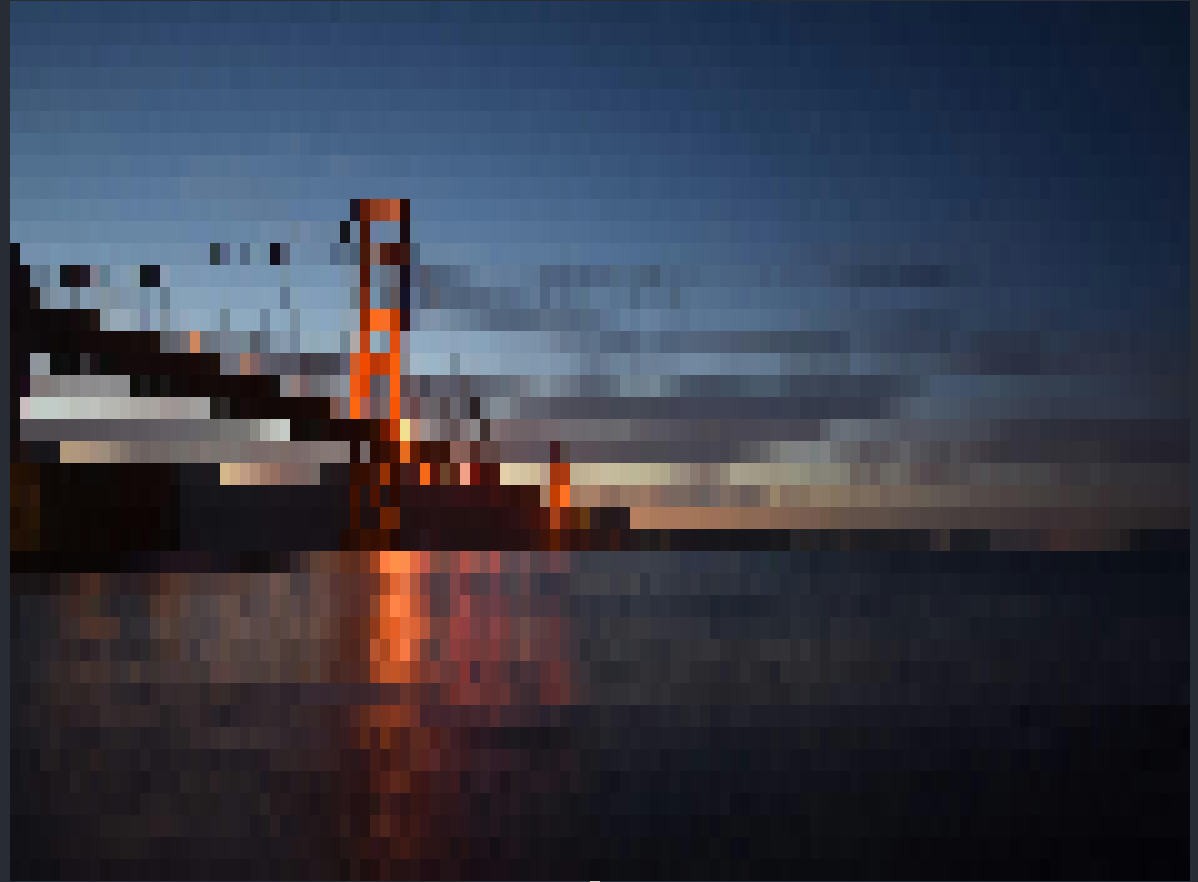
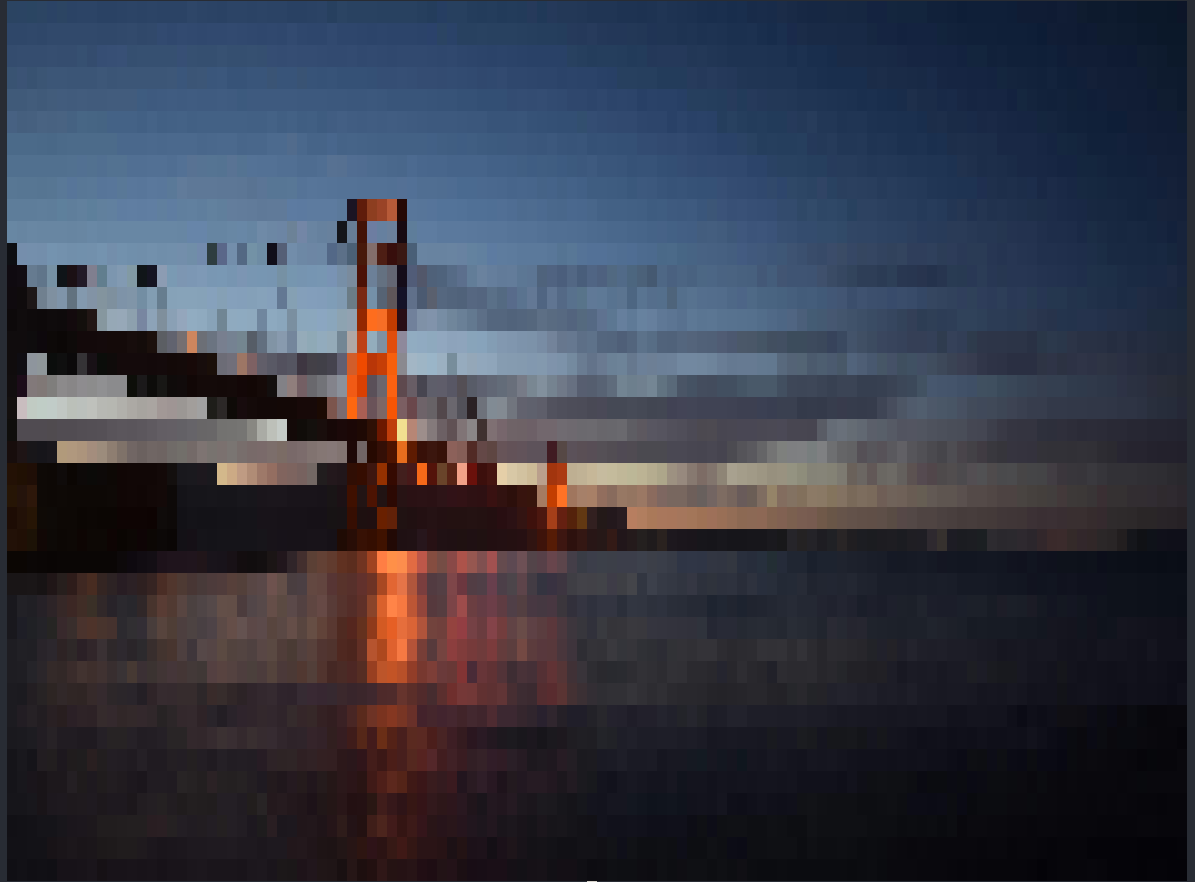
Fixed missing changes

diff --git a/README.md b/README.md
@@ -1,5 +1,5 @@
-# imgToAscii
-imgToAscii is a CLI tool that helps you view images in your terminal window by converting them into ASCII art representations without relying on any external applications.
+# *imgToAscii*
+*imgToAscii* is a CLI tool that helps you view images in your terminal window by converting them into ASCII art representations without relying on any external applications.
 
 ## Features
 - Converts images into text-based ASCII art
